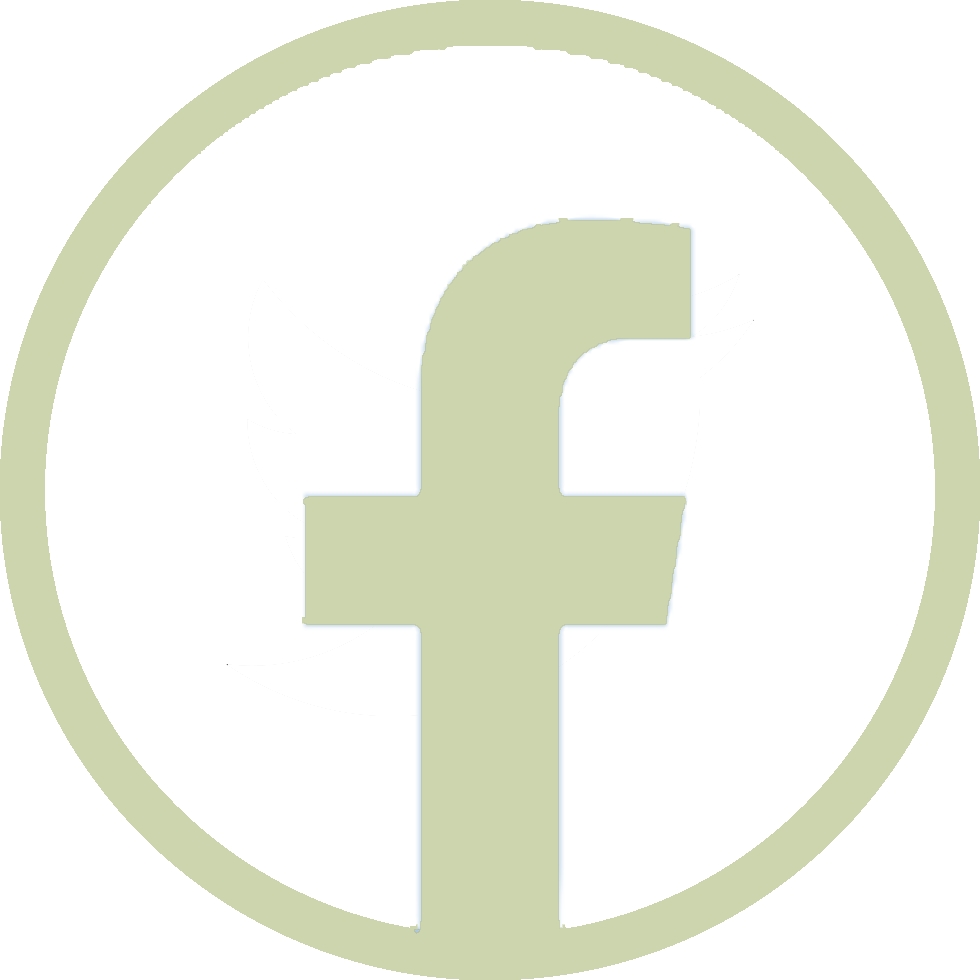
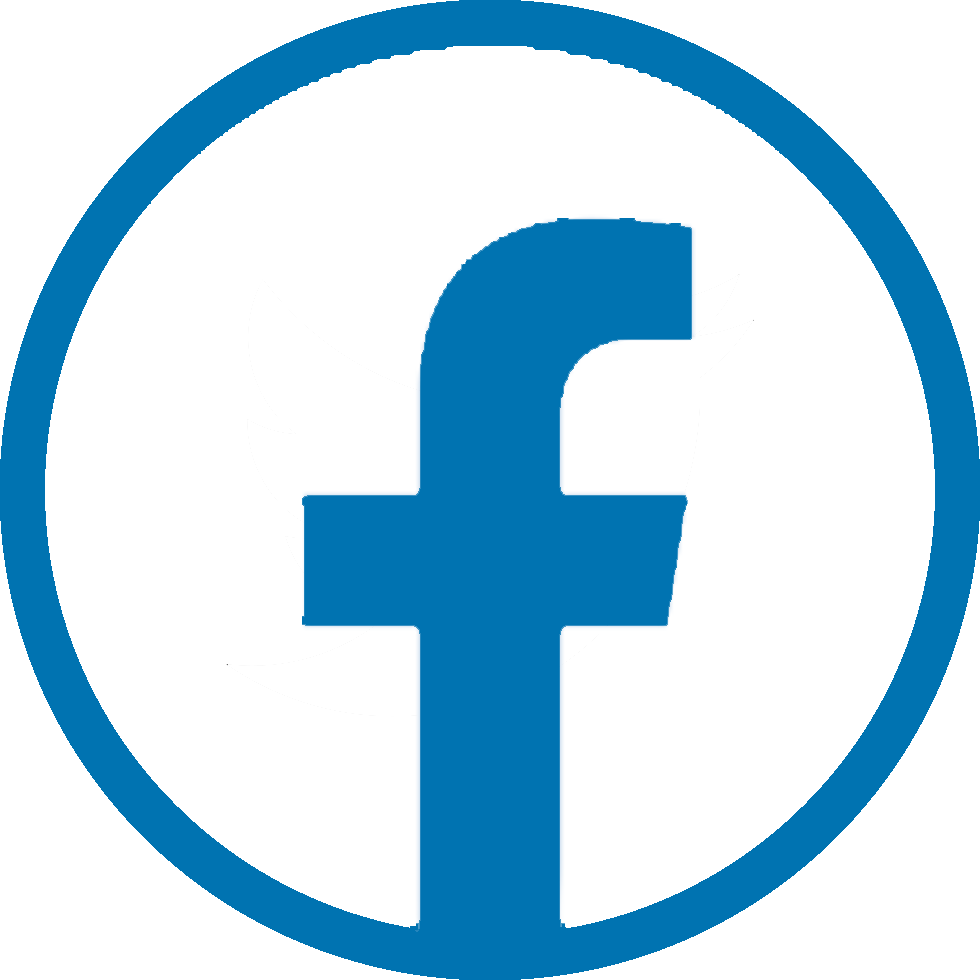
Modulo Experiencia

Changed region(s): [[0.0, 0.0, 1.0, 1.0]]

diff --git a/ProyectoIntegrador_GinoCannata/FrontEnd/src/app/components/hardsoft/hardsoft.component.html b/ProyectoIntegrador_GinoCannata/FrontEnd/src/app/components/hardsoft/hardsoft.component.html
@@ -4,13 +4,13 @@
   [percent]="75"
   [radius]="100"
   [title]="'HTML'"
-  [titleColor]="'#ccd5ae'"
+  [titleColor]="'black'"
   [titleFontWeight]="'bold'"
   [showUnits]="false"
   [outerStrokeWidth]="16"
   [innerStrokeWidth]="8"
-  [outerStrokeColor]="'#ccd5ae'"
-  [innerStrokeColor]="'#ccd5ae'"
+  [outerStrokeColor]="'#0073b1'"
+  [innerStrokeColor]="'#0073b1'"
   [animation]="true"
   [animationDuration]="500"
 ></circle-progress>
@@ -20,13 +20,13 @@
   [percent]="75"
   [radius]="100"
   [title]="'CSS'"
-  [titleColor]="'#ccd5ae'"
+  [titleColor]="'black'"
   [titleFontWeight]="'bold'"
   [showUnits]="false"
   [outerStrokeWidth]="16"
   [innerStrokeWidth]="8"
-  [outerStrokeColor]="'#ccd5ae'"
-  [innerStrokeColor]="'#ccd5ae'"
+  [outerStrokeColor]="'#0073b1'"
+  [innerStrokeColor]="'#0073b1'"
   [animation]="true"
   [animationDuration]="500"
 ></circle-progress>
@@ -36,13 +36,13 @@
   [percent]="75"
   [radius]="100"
   [title]="'JavaScript'"
-  [titleColor]="'#ccd5ae'"
+  [titleColor]="'black'"
   [titleFontWeight]="'bold'"
   [showUnits]="false"
   [outerStrokeWidth]="16"
   [innerStrokeWidth]="8"
-  [outerStrokeColor]="'#ccd5ae'"
-  [innerStrokeColor]="'#ccd5ae'"
+  [outerStrokeColor]="'#0073b1'"
+  [innerStrokeColor]="'#0073b1'"
   [animation]="true"
   [animationDuration]="500"
 ></circle-progress>
@@ -52,13 +52,13 @@
   [percent]="75"
   [radius]="100"
   [title]="'Java'"
-  [titleColor]="'#ccd5ae'"
+  [titleColor]="'black'"
   [titleFontWeight]="'bold'"
   [showUnits]="false"
   [outerStrokeWidth]="16"
   [innerStrokeWidth]="8"
-  [outerStrokeColor]="'#ccd5ae'"
-  [innerStrokeColor]="'#ccd5ae'"
+  [outerStrokeColor]="'#0073b1'"
+  [innerStrokeColor]="'#0073b1'"
   [animation]="true"
   [animationDuration]="500"
 ></circle-progress>
@@ -68,13 +68,13 @@
   [percent]="90"
   [radius]="100"
   [title]="'Inglés'"
-  [titleColor]="'#ccd5ae'"
+  [titleColor]="'black'"
   [titleFontWeight]="'bold'"
   [showUnits]="false"
   [outerStrokeWidth]="16"
   [innerStrokeWidth]="8"
-  [outerStrokeColor]="'#ccd5ae'"
-  [innerStrokeColor]="'#ccd5ae'"
+  [outerStrokeColor]="'#0073b1'"
+  [innerStrokeColor]="'#0073b1'"
   [animation]="true"
   [animationDuration]="500"
 ></circle-progress>
@@ -84,13 +84,13 @@
   [percent]="85"
   [radius]="100"
   [title]="'Comunicación'"
-  [titleColor]="'#ccd5ae'"
+  [titleColor]="'black'"
   [titleFontWeight]="'bold'"
   [showUnits]="false"
   [outerStrokeWidth]="16"
   [innerStrokeWidth]="8"
-  [outerStrokeColor]="'#ccd5ae'"
-  [innerStrokeColor]="'#ccd5ae'"
+  [outerStrokeColor]="'#0073b1'"
+  [innerStrokeColor]="'#0073b1'"
   [animation]="true"
   [animationDuration]="500"
 ></circle-progress>

diff --git a/ProyectoIntegrador_GinoCannata/FrontEnd/src/app/components/experiencia/experiencia.component.html b/ProyectoIntegrador_GinoCannata/FrontEnd/src/app/components/experiencia/experiencia.component.html
@@ -1,17 +1,28 @@
 <div class="row">
     <h1>Experiencia Laboral</h1>
-    <div class="col-lg2">
-        <button type=""></button>
+    <div class="col-lg-2">
+        <button type="button" class="btn btn-primary" routerLink="/nuevaexp" *ngIf="isLogged">
+            Nueva experiencia
+        </button>
     </div>
     <div class="col-lg-1"></div>
     <div class="col-lg-11">
         <table class="table">
             <tbody>
                 <tr *ngFor="let Experiencia of expe">
-                    <td>{{Experiencia.nombreE}}</td>
+                    <td>
+                        <h2>{{Experiencia.nombreE}}</h2>
+                    </td>
                     <td>{{Experiencia.descripcionE}}</td>
-                    <td>EDITAR</td>
-                    <td>BORRAR</td>
+                    <td *ngIf="isLogged">
+                        <button class="btn btn-success" routerLink="/editexp/{{Experiencia.id}}"><i
+                                class="bi bi-pencil-square"></i>EDITAR</button>
+                    </td>
+
+                    <td *ngIf="isLogged">
+                        <button class="btn btn-danger" (click)="delete(Experiencia.id)"><i
+                                class="bi bi-trash3"></i>BORRAR</button>
+                    </td>
                 </tr>
             </tbody>
         </table>

diff --git a/ProyectoIntegrador_GinoCannata/FrontEnd/src/app/components/experiencia/edit-experiencia.component.ts b/ProyectoIntegrador_GinoCannata/FrontEnd/src/app/components/experiencia/edit-experiencia.component.ts
@@ -1,0 +1,38 @@
+import { Component, OnInit } from '@angular/core';
+import { ActivatedRoute, Router } from '@angular/router';
+import { Experiencia } from 'src/app/model/experiencia';
+import { SExperienciaService } from 'src/app/service/s-experiencia.service';
+
+@Component({
+  selector: 'app-edit-experiencia',
+  templateUrl: './edit-experiencia.component.html',
+  styleUrls: ['./edit-experiencia.component.css']
+})
+export class EditExperienciaComponent implements OnInit {
+  explab : Experiencia = null;
+  constructor(private sExperiencia: SExperienciaService, private activatedRouter: ActivatedRoute, private router: Router) { }
+
+  ngOnInit(): void {
+    const id = this.activatedRouter.snapshot.params['id'];
+    this.sExperiencia.detail(id).subscribe(
+      data =>{
+        this.explab = data;
+      }, err=>{
+        alert("Error al modificar experiencia");
+        this.router.navigate(['']);
+      }
+    )
+  }
+  onUpdate():void{
+    const id = this.activatedRouter.snapshot.params['id'];
+    this.sExperiencia.update(id,this.explab).subscribe(
+      data =>{
+        this.router.navigate(['']);
+      }, err =>{
+        alert("Error al modificar experiencia");
+        this.router.navigate(['']);
+      }
+    )
+  }
+
+}

diff --git a/ProyectoIntegrador_GinoCannata/FrontEnd/src/app/components/experiencia/new-experiencia.component.ts b/ProyectoIntegrador_GinoCannata/FrontEnd/src/app/components/experiencia/new-experiencia.component.ts
@@ -1,0 +1,30 @@
+import { Component, OnInit } from '@angular/core';
+import { Router } from '@angular/router';
+import { Experiencia } from 'src/app/model/experiencia';
+import { SExperienciaService } from 'src/app/service/s-experiencia.service';
+
+@Component({
+  selector: 'app-new-experiencia',
+  templateUrl: './new-experiencia.component.html',
+  styleUrls: ['./new-experiencia.component.css']
+})
+export class NewExperienciaComponent implements OnInit {
+  nombreE: string = "";
+  descripcionE: string = "";
+  constructor(private sExperiencia: SExperienciaService, private router: Router) { }
+
+  ngOnInit(): void {
+  }
+  onCreate():void{
+    const expe = new Experiencia(this.nombreE, this.descripcionE);
+    this.sExperiencia.save(expe).subscribe(
+      (data)=>{
+        alert("Experiencia añadida");
+        this.router.navigate(['']);
+      }, err =>{
+        alert("Falló");
+        this.router.navigate(['']);
+      }
+    );
+
+} }

diff --git a/ProyectoIntegrador_GinoCannata/FrontEnd/src/app/components/experiencia/edit-experiencia.component.html b/ProyectoIntegrador_GinoCannata/FrontEnd/src/app/components/experiencia/edit-experiencia.component.html
@@ -1,0 +1,20 @@
+<div class="container" *ngIf="explab">
+    <div class="row">
+        <div>
+            <form (ngSubmit)="onUpdate()" novalidate #f="ngForm">
+                <div class="form-group">
+                    <label for="nombreE">Nombre de la empresa</label>
+                    <input type="text" class="form-control" name="nombreE" id="nombreE" [(ngModel)]="explab.nombreE" required>
+                </div>
+                <div class="form-group">
+                    <label for="descripcionE">Descripcion de la tarea</label>
+                    <input type="text" class="form-control" name="descripcionE" id="descripcionE" [(ngModel)]="explab.descripcionE" required>
+                </div>
+                <button class="btn btn-info">
+                    Actualizar experiencia
+                </button>
+            
+            </form>
+        </div>
+    </div>
+</div>

diff --git a/ProyectoIntegrador_GinoCannata/FrontEnd/src/app/components/experiencia/new-experiencia.component.html b/ProyectoIntegrador_GinoCannata/FrontEnd/src/app/components/experiencia/new-experiencia.component.html
@@ -1,0 +1,20 @@
+<div class="container">
+    <div class="row">
+        <div>
+            <form (ngSubmit)="onCreate()" novalidate #f="ngForm">
+                <div class="form-group">
+                    <label for="nombreE">Nombre de la empresa</label>
+                    <input type="text" class="form-control" name="nombreE" id="nombreE" [(ngModel)]="nombreE" required="">
+                </div>
+                <div class="form-group">
+                    <label for="descripcionE">Descripcion de la tarea</label>
+                    <input type="text" class="form-control" name="descripcionE" id="descripcionE" [(ngModel)]="descripcionE" required="">
+                </div>
+                <button class="btn btn-info">
+                    Agregar experiencia
+                </button>
+            
+            </form>
+        </div>
+    </div>
+</div>

diff --git a/ProyectoIntegrador_GinoCannata/FrontEnd/src/app/app.module.ts b/ProyectoIntegrador_GinoCannata/FrontEnd/src/app/app.module.ts
@@ -18,6 +18,8 @@ import {HttpClientModule} from '@angular/common/http';
 import { HomeComponent } from './components/home/home.component';
 import { LoginComponent } from './components/login/login.component';
 import { interceptorProvider } from './service/interceptor-service';
+import { NewExperienciaComponent } from './components/experiencia/new-experiencia.component';
+import { EditExperienciaComponent } from './components/experiencia/edit-experiencia.component';
 
 
 @NgModule({
@@ -33,7 +35,9 @@ import { interceptorProvider } from './service/interceptor-service';
     ProyectoComponent,
     FooterComponent,
     HomeComponent,
-    LoginComponent
+    LoginComponent,
+    NewExperienciaComponent,
+    EditExperienciaComponent
   ],
   imports: [
     BrowserModule,

diff --git a/ProyectoIntegrador_GinoCannata/FrontEnd/src/app/components/acerca-de/acerca-de.component.css b/ProyectoIntegrador_GinoCannata/FrontEnd/src/app/components/acerca-de/acerca-de.component.css
@@ -1,6 +1,6 @@
 .row{
     padding: 20px;
-    background-color: #fefae0;
+    background-color: white;
     font-weight: bold;
 }
 div{
@@ -8,11 +8,11 @@ div{
     text-align: center;
 }
 p{
-    color: #ccd5ae;
+    color: black;
 
 }
 h1{
-    color: #ccd5ae;
+    color: black;
 }
 /* nombre*/
 #nombre{
@@ -28,7 +28,7 @@ h1{
         position: absolute;
         width: 15%;
         border-radius: 100%;
-        box-shadow: 3px 3px 3px #ccd5ae;
+        box-shadow: 3px 3px 3px black;
         left: 3%;
         top: 620px;
     }
@@ -38,7 +38,7 @@ h1{
         position: absolute;
         width: 30%;
         border-radius: 100%;
-        box-shadow: 3px 3px 3px #ccd5ae;
+        box-shadow: 3px 3px 3px black;
         left: 35%;
         top: 620px;
     }

diff --git a/ProyectoIntegrador_GinoCannata/FrontEnd/src/app/app-routing.module.ts b/ProyectoIntegrador_GinoCannata/FrontEnd/src/app/app-routing.module.ts
@@ -1,11 +1,15 @@
 import { NgModule } from '@angular/core';
 import { RouterModule, Routes } from '@angular/router';
+import { EditExperienciaComponent } from './components/experiencia/edit-experiencia.component';
+import { NewExperienciaComponent } from './components/experiencia/new-experiencia.component';
 import { HomeComponent } from './components/home/home.component';
 import { LoginComponent } from './components/login/login.component';
 
 const routes: Routes = [
   {path:'', component: HomeComponent},
-  {path:'login', component: LoginComponent}
+  {path:'login', component: LoginComponent},
+  {path: 'nuevaexp', component : NewExperienciaComponent},
+  {path: 'editexp/:id', component : EditExperienciaComponent}
 ];
 
 @NgModule({

diff --git a/ProyectoIntegrador_GinoCannata/FrontEnd/src/app/components/experiencia/experiencia.component.ts b/ProyectoIntegrador_GinoCannata/FrontEnd/src/app/components/experiencia/experiencia.component.ts
@@ -15,6 +15,7 @@ export class ExperienciaComponent implements OnInit {
   isLogged = false;
 
   ngOnInit(): void {
+    this.cargarExperiencia();
     if(this.tokenService.getToken()){
       this.isLogged = true;
     } else{
@@ -23,6 +24,17 @@ export class ExperienciaComponent implements OnInit {
   }
 
   cargarExperiencia():void{
-    this.sExperiencia.lista().subscribe(data =>{this.expe = data})
+    this.sExperiencia.lista().subscribe(data =>{this.expe = data; })
+  }
+  delete(id?:number){
+    if(id!=undefined){
+      this.sExperiencia.delete(id).subscribe(
+        data => {
+          this.cargarExperiencia();
+        }, err =>{
+          alert("No se pudo borrar la experiencia");
+        }
+      )
+    }
   }
 }

diff --git a/ProyectoIntegrador_GinoCannata/FrontEnd/src/index.html b/ProyectoIntegrador_GinoCannata/FrontEnd/src/index.html
@@ -6,6 +6,7 @@
   <base href="/">
   <meta name="viewport" content="width=device-width, initial-scale=1">
   <link rel="icon" type="image/x-icon" href="favicon.ico">
+  <link rel="stylesheet" href="https://cdn.jsdelivr.net/npm/bootstrap-icons@1.10.3/font/bootstrap-icons.css">
 </head>
 <body>
   <app-root></app-root>

diff --git a/ProyectoIntegrador_GinoCannata/FrontEnd/src/app/service/s-experiencia.service.ts b/ProyectoIntegrador_GinoCannata/FrontEnd/src/app/service/s-experiencia.service.ts
@@ -7,7 +7,7 @@ import { Experiencia } from '../model/experiencia';
   providedIn: 'root'
 })
 export class SExperienciaService {
-  expURL = 'http://localhost:8080/explab'
+  expURL = 'http://localhost:8080/explab/'
 
 
   constructor(private httpClient : HttpClient) { }
